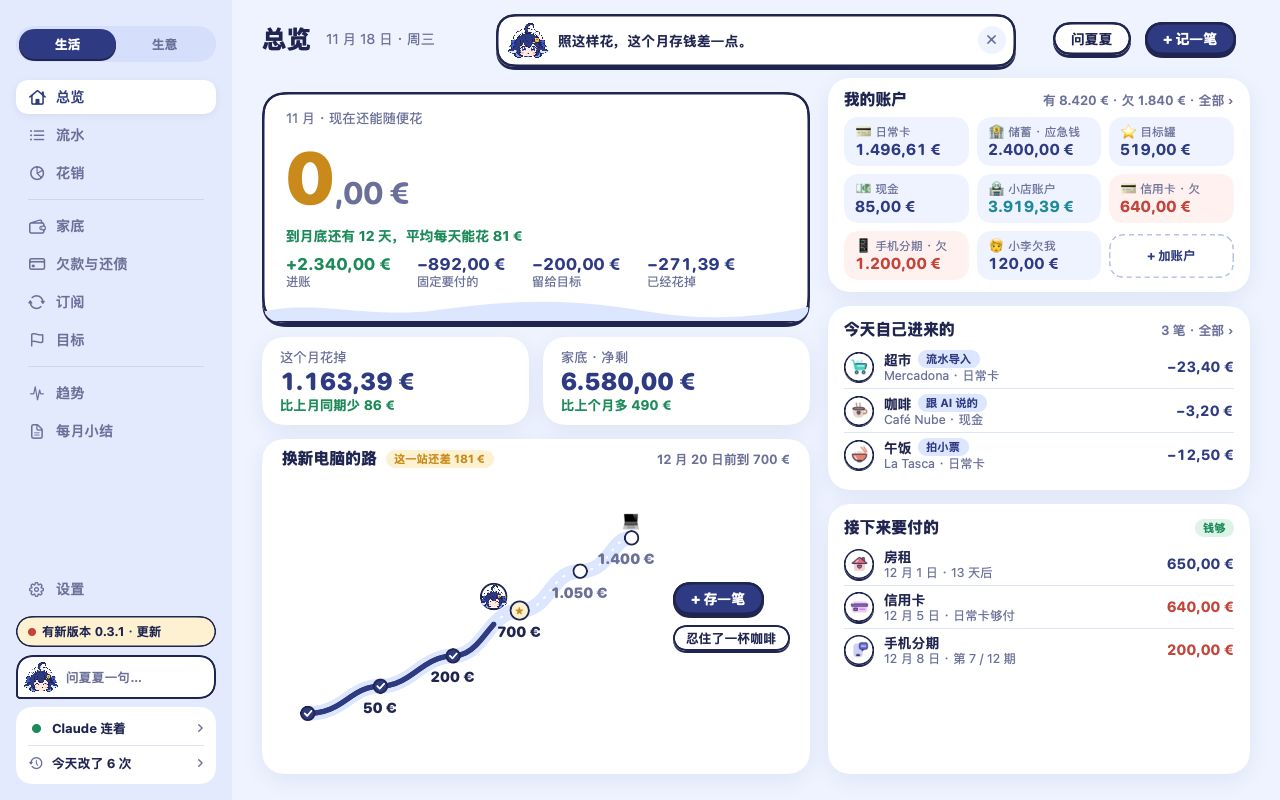
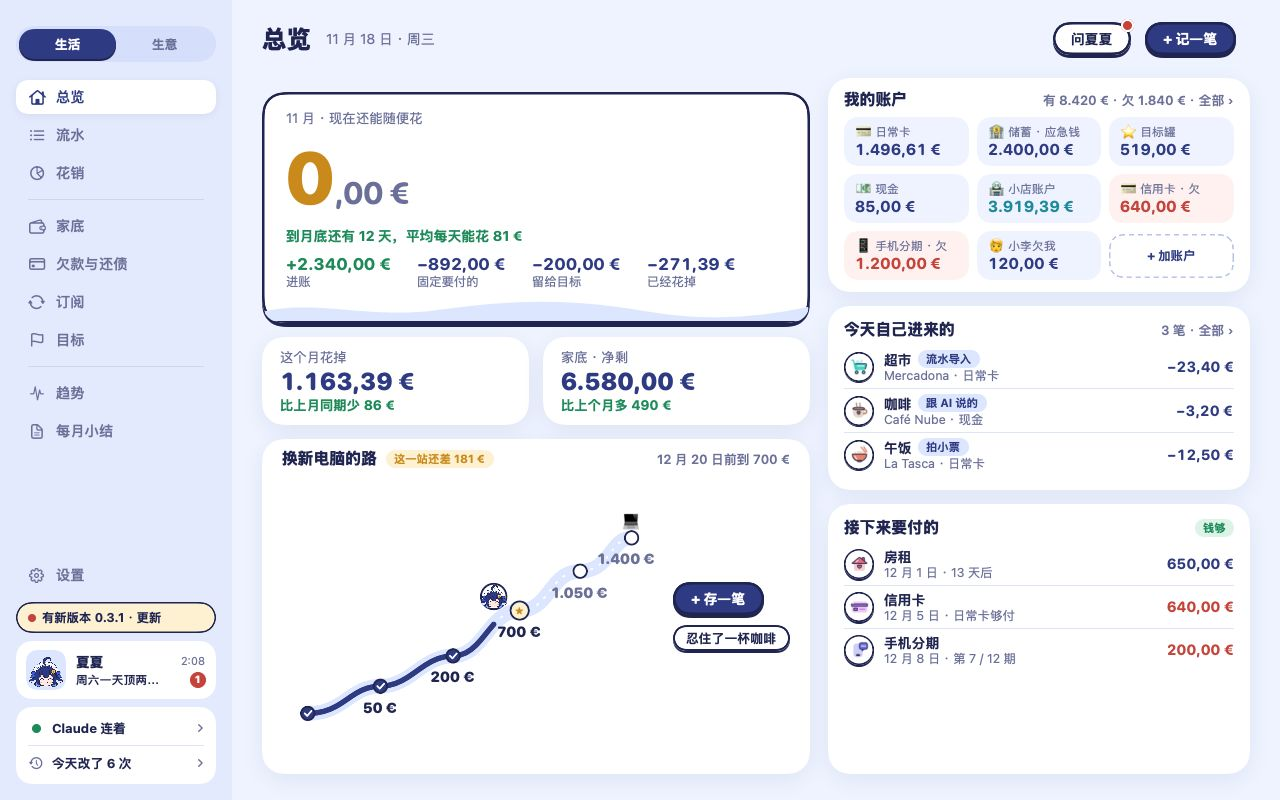
界面 v3：左下角改成一行「夏夏」会话（头像、名字、时间、最后一句）；导入进度只在真的导入时出现

Changed region(s): [[0.375, 0.0, 0.8125, 0.0938], [0.0, 0.6875, 0.1875, 0.875]]

diff --git a/Sources/LedgerUI/V3/V3LifeMore.swift b/Sources/LedgerUI/V3/V3LifeMore.swift
@@ -1,6 +1,7 @@
 #if os(macOS)
 import FinanceCore
 import SwiftUI
+import UniformTypeIdentifiers
 
 // 生活这边其余的页：花销、趋势、流水、花钱前想想（含大决定）、订阅、欠款与还债、每月小结。
 // 数字是设计稿里那套编的示例；能跟着动的（还能随便花、目标、应急钱）都从同一份状态里算。
@@ -250,12 +251,9 @@ struct V3TrendsPage: View {
 
 struct V3TransactionsPage: View {
     @Environment(V3State.self) private var state
-    @State private var read = 37
-    @State private var paused = false
     @State private var search = ""
     @State private var selected: UUID?
     @State private var lumi: Bool?
-    private let total = 52
 
     private func match(_ e: V3State.Entry) -> Bool {
         let q = search.trimmingCharacters(in: .whitespaces)
@@ -269,31 +267,16 @@ struct V3TransactionsPage: View {
         let pick = all.first { $0.id == selected } ?? today.first ?? yest.first ?? all.first
         V3Cols(left: 1.5, right: 1) {
             VStack(spacing: 16) {
-                // 导入进度：一笔一笔跳
-                HStack(spacing: 16) {
-                    Text("📄").font(.system(size: 34))
-                    VStack(alignment: .leading, spacing: 6) {
-                        Text(read >= total ? "「Revolut 11 月流水」读完了 · \(total) 笔" : "\(paused ? "先停下了" : "正在读")「Revolut 11 月流水」· 已读 \(read) / \(total) 笔")
-                            .font(V3.font(14, .bold)).contentTransition(.numericText())
-                        V3Bar(fraction: Double(read) / Double(total))
-                        V3Label("新的 \(max(read - 6, 0)) 笔 · 跳过重复 6 笔", size: 13)
+                // 导入进度：只在真的正在导入时出现，读完自己消失（结果在底部提示条里说）。
+                if let p = state.importProgress {
+                    HStack(spacing: 10) {
+                        Image(systemName: "doc.text").font(.system(size: 15, weight: .semibold)).foregroundStyle(V3.navy)
+                        Text("正在读 \(p.name) \(p.read)/\(p.total)").font(V3.font(13.5, .bold)).foregroundStyle(V3.ink).contentTransition(.numericText()).fixedSize()
+                        V3Bar(fraction: Double(p.read) / Double(max(p.total, 1)), height: 8)
+                        Button("停下") { state.stopImport() }.buttonStyle(.plain).font(V3.font(13, .bold)).foregroundStyle(V3.navy)
                     }
-                    if read < total {
-                        Button(paused ? "接着读" : "先停下") {
-                            paused.toggle()
-                            state.say(paused ? "先停下了，已读的 \(read) 笔留着" : "好，接着读")
-                        }
-                        .buttonStyle(.v3(.ghost, .small))
-                    } else {
-                        Button("再读一遍") { read = 37; paused = false }.buttonStyle(.v3(.ghost, .small))
-                    }
-                }
-                .padding(.horizontal, 22).padding(.vertical, 16).v3Sticker(fill: V3.soft, dashed: true)
-                .task(id: paused) {
-                    while !paused, read < total, !Task.isCancelled {
-                        try? await Task.sleep(for: .milliseconds(650))
-                        if !paused, read < total { withAnimation(.snappy(duration: 0.2)) { read += 1 } }
-                    }
+                    .padding(.horizontal, 16).padding(.vertical, 10).v3Soft(radius: 14)
+                    .transition(.opacity.combined(with: .move(edge: .top)))
                 }
                 if lumi == nil {
                     V3Ask(face: "think", text: "Super Lumi 那 18,60 €，算超市？") {
@@ -311,11 +294,14 @@ struct V3TransactionsPage: View {
                 }
                 V3GrowCard(spacing: 6) {
                     HStack(spacing: 8) {
+                    HStack(spacing: 8) {
                         Text("🔍")
                         TextField("搜店名、金额、分类", text: $search).textFieldStyle(.plain).font(V3.font(14, .semibold))
                     }
                     .padding(.horizontal, 14).padding(.vertical, 6)
                     .background(Capsule().fill(.white).overlay(Capsule().strokeBorder(V3.ink, lineWidth: 1.5)))
+                    Button("导入流水") { state.importSample() }.buttonStyle(.v3(.ghost, .small)).disabled(state.importProgress != nil).help("也可以把文件拖到这一页")
+                    }
                     if today.isEmpty && yest.isEmpty {
                         V3Label("没找到「\(search)」。换个店名或者金额试试。").padding(.top, 10)
                     }
@@ -358,6 +344,7 @@ struct V3TransactionsPage: View {
             }
         }
         .onAppear { takeFocus() }
+        .onDrop(of: [.fileURL], isTargeted: nil) { _ in state.importSample(dropped: true); return true }
     }
 
     private func takeFocus() {

diff --git a/Sources/LedgerUI/V3/V3Root.swift b/Sources/LedgerUI/V3/V3Root.swift
@@ -344,7 +344,7 @@ private struct V3Sidebar: View {
                 }
                 .buttonStyle(V3SinkStyle(depth: 2)).help("账本不动，只换 app 本身")
             }
-            // 卡片上面放一个像对话框的「问夏夏」（ming 2026-11-28：不要站着的人，要像一个对话框）。
+            // 卡片上面放一行「夏夏」会话，像聊天软件的列表那样（ming 2026-11-28）。
             V3SidebarXia()
             statusCard(linked: linked, ai: ai, changes: changes)
         }
@@ -381,33 +381,55 @@ private struct V3Sidebar: View {
     private func strip(_ m: Money) -> String { m.v3Short.replacingOccurrences(of: "\u{00A0}€", with: "") }
 }
 
-/// 左边栏底部的「问夏夏」：小头像 + 一个像输入框的对话框，点了打开整页聊天。有一句话没看时，对话框里就是那句话的小红点。
+/// 左边栏底部的「夏夏」：像聊天软件里的一行会话（ming 2026-11-28）。左边头像，右边上面名字和时间，下面是她最后一句话；点了打开整页聊天。
 /// 头像只在这一处引用（`V3SidebarXia.asset`），以后角色定了新样子，换这一个名字就行。
 private struct V3SidebarXia: View {
     static let asset = "head-happy"
     @Environment(V3State.self) private var state
     @State private var hover = false
 
+    static func time(_ d: Date) -> String {
+        let cal = Calendar.current
+        if cal.isDateInToday(d) { return d.formatted(date: .omitted, time: .shortened) }
+        if cal.isDateInYesterday(d) { return "昨天" }
+        return d.formatted(.dateTime.month().day())
+    }
+
     var body: some View {
+        let unread = state.sayUnreadID != nil || state.sayCardID != nil
         Button { state.openChat() } label: {
-            HStack(spacing: 8) {
-                if state.prefs.showXia { V3.image(Self.asset).resizable().scaledToFit().frame(width: 34, height: 30) }
-                Text(state.sayUnreadID != nil ? "\(state.prefs.xiaName)有一句话" : "问\(state.prefs.xiaName)一句…")
-                    .font(V3.font(13, .semibold)).foregroundStyle(state.sayUnreadID != nil ? V3.ink : V3.ink2).lineLimit(1)
-                Spacer(minLength: 0)
-                if state.sayUnreadID != nil { Circle().fill(V3.red).frame(width: 9, height: 9) }
+            HStack(spacing: 10) {
+                if state.prefs.showXia {
+                    V3.image(Self.asset).resizable().scaledToFill().frame(width: 34, height: 30).offset(y: 2)
+                        .frame(width: 40, height: 40)
+                        .background(RoundedRectangle(cornerRadius: 11, style: .continuous).fill(V3.soft))
+                        .clipShape(RoundedRectangle(cornerRadius: 11, style: .continuous))
+                }
+                VStack(alignment: .leading, spacing: 2) {
+                    HStack(spacing: 4) {
+                        Text(state.prefs.xiaName).font(V3.font(14, .heavy)).foregroundStyle(V3.ink).lineLimit(1)
+                        Spacer(minLength: 2)
+                        if let said = state.lastSaid { Text(Self.time(said.at)).font(V3.font(11, .regular)).foregroundStyle(V3.ink2) }
+                    }
+                    HStack(spacing: 4) {
+                        Text(state.lastSaid?.text ?? "有事问我").font(V3.font(12, unread ? .semibold : .regular))
+                            .foregroundStyle(unread ? V3.ink : V3.ink2).lineLimit(1).truncationMode(.tail)
+                        Spacer(minLength: 2)
+                        if unread {
+                            Text("1").font(V3.font(10, .heavy)).foregroundStyle(.white).frame(width: 16, height: 16).background(Circle().fill(V3.red))
+                                .accessibilityLabel("有一句没看")
+                        }
+                    }
+                }
             }
-            .padding(.leading, 8).padding(.trailing, 12).padding(.vertical, 7)
-            .background(
-                UnevenRoundedRectangle(topLeadingRadius: 16, bottomLeadingRadius: 4, bottomTrailingRadius: 16, topTrailingRadius: 16)
-                    .fill(.white)
-                    .overlay(UnevenRoundedRectangle(topLeadingRadius: 16, bottomLeadingRadius: 4, bottomTrailingRadius: 16, topTrailingRadius: 16).strokeBorder(V3.ink, lineWidth: hover ? 2.5 : 2)))
+            .padding(.horizontal, 10).padding(.vertical, 9)
+            .background(RoundedRectangle(cornerRadius: 16, style: .continuous).fill(hover ? V3.hex(0xF7F9FF) : .white))
             .contentShape(Rectangle())
         }
         .buttonStyle(V3SinkStyle(depth: 2))
         .onHover { hover = $0 }
         .help("问\(state.prefs.xiaName)（⌘K）")
-        .accessibilityLabel("问\(state.prefs.xiaName)")
+        .accessibilityLabel("\(state.prefs.xiaName)：\(state.lastSaid?.text ?? "有事问我")。点一下和她聊")
     }
 }
 

diff --git a/Sources/LedgerUI/V3/V3States.swift b/Sources/LedgerUI/V3/V3States.swift
@@ -20,13 +20,33 @@ extension V3State {
     }
 
     /// 导入流水。试用版不读真文件：进来的是示例里的那几笔，重复的跳过，整批能撤销。
+    /// 先去流水页，顶上一条进度走几秒，走完才真的进账本，底下提示条说进来几笔。
     func importSample(dropped: Bool = false) {
+        guard importProgress == nil else { return }
         let rows = Self.demoBook.entries
-        var result = (added: 0, skipped: 0)
-        let ok = change("导入好了", kind: .importBatch) { result = try $0.importEntries(rows) }
-        if ok {
-            say("导入了 \(result.added) 笔\(result.skipped > 0 ? "，跳过重复 \(result.skipped) 笔" : "")（试用版用的是示例流水）") { [weak self] in self?.undo() }
+        let total = 40
+        if showsLife { go(.transactions) }
+        withAnimation(.snappy(duration: 0.2)) { importProgress = (dropped ? "放进来的文件" : "示例流水", 0, total) }
+        importTask = Task { @MainActor [weak self] in
+            for n in 1...total {
+                try? await Task.sleep(for: .milliseconds(55))
+                guard let self, !Task.isCancelled, self.importProgress != nil else { return }
+                withAnimation(.linear(duration: 0.05)) { self.importProgress?.read = n }
+            }
+            guard let self, !Task.isCancelled else { return }
+            withAnimation(.snappy(duration: 0.2)) { self.importProgress = nil }
+            var result = (added: 0, skipped: 0)
+            if self.change("导入好了", kind: .importBatch, { result = try $0.importEntries(rows) }) {
+                self.say("进来 \(result.added) 笔\(result.skipped > 0 ? "，跳过重复 \(result.skipped) 笔" : "")（试用版用的是示例流水）") { [weak self] in self?.undo() }
+            }
         }
+    }
+
+    /// 导入到一半停下：已经读的不进账本。
+    func stopImport() {
+        importTask?.cancel(); importTask = nil
+        withAnimation(.snappy(duration: 0.2)) { importProgress = nil }
+        say("停下了，什么都没导进来")
     }
 
     /// 这一页现在是不是没东西可看。
@@ -36,6 +56,7 @@ extension V3State {
         switch p {
         case .overview, .wealth: return noMoney
         case .goals: return b.journey.total == .zero
+        case .transactions where importProgress != nil: return false
         case .spending, .trends, .transactions, .monthly: return b.entries.filter { $0.side == .life }.isEmpty && noMoney
         case .settings: return false
         case .subscriptions: return b.subscriptions.isEmpty

diff --git a/Tests/LedgerUITests/V3RenderTests.swift b/Tests/LedgerUITests/V3RenderTests.swift
@@ -45,6 +45,10 @@ final class V3RenderTests: XCTestCase {
         done.nextStep(); done.toast = nil
         XCTAssertNil(done.moment)
         try write(V3Shell().environment(done), "after-onboarding", to: dir)
+        done.lastSaid = ("照这样花，这个月存钱差一点。", Date()); done.sayCardID = nil; done.sayUnreadID = "照这样花，这个月存钱差一点。"
+        try write(V3Shell().environment(done), "sidebar-chat-unread", to: dir)
+        done.sayUnreadID = nil; done.sayDismissed = ["照这样花，这个月存钱差一点。"]
+        try write(V3Shell().environment(done), "sidebar-chat-read", to: dir)
         done.side = .biz; done.page = .bizHome
         try write(V3Shell().environment(done), "sidebar-xia-biz", to: dir)
         done.side = .life; done.page = .overview
@@ -58,6 +62,7 @@ final class V3RenderTests: XCTestCase {
             let s = V3State(); s.onboardingStep = nil; setup(s); s.toast = nil
             try write(V3Shell().environment(s), name, to: dir)
         }
+        try shell("tx-importing") { $0.page = .transactions; $0.importProgress = ("Revolut 11 月流水", 40, 52) }
         try shell("nav-wealth") { $0.page = .wealth }
         try shell("nav-goals") { $0.page = .goals }
         try shell("nav-biz") { $0.side = .biz; $0.page = .fixed }

diff --git a/Sources/LedgerUI/V3/V3Xia.swift b/Sources/LedgerUI/V3/V3Xia.swift
@@ -38,6 +38,7 @@ extension V3State {
     func offer(_ id: String?) {
         guard let id else { sayCardID = nil; sayUnreadID = nil; return }
         guard !sayDismissed.contains(id), id != sayCardID else { return }
+        if lastSaid?.text != id { lastSaid = (id, Date()) }
         if chatOpen || sheet != nil || showAdd { return }
         // 一页一次只滑下来一句；今天说满三句以后只亮小红点
         if !prefs.bubbles || sayPoppedThisPage || sayPopsToday >= prefs.maxPerDay {
@@ -309,6 +310,7 @@ struct V3ChatPage: View {
             let answer = buyReply(q, attachment: attachment) ?? V3State.ChatMessage(mine: false, text: reply(q))
             withAnimation(.snappy) { thinking = false }
             state.chat.append(answer)
+            state.lastSaid = (answer.text, Date())
         }
     }
 

diff --git a/Sources/LedgerUI/V3/V3State.swift b/Sources/LedgerUI/V3/V3State.swift
@@ -140,6 +140,11 @@ final class V3State {
     var showLog = false
     /// 设置里正开着的那一页（nil = 设置首页）。
     var settingsSub: SettingsSub?
+    /// 正在导入的那份流水读到第几笔了（没在导入是 nil）。
+    var importProgress: (name: String, read: Int, total: Int)?
+    var importTask: Task<Void, Never>?
+    /// 夏夏最后说的一句和时间（左下角那一行会话的预览）。
+    var lastSaid: (text: String, at: Date)?
     /// 聊天输入框上面带着的那张图或那个链接。
     var chatAttachment: V3Attachment?
     /// 夏夏刚问了「多少钱？」，在等价钱的那样东西。
